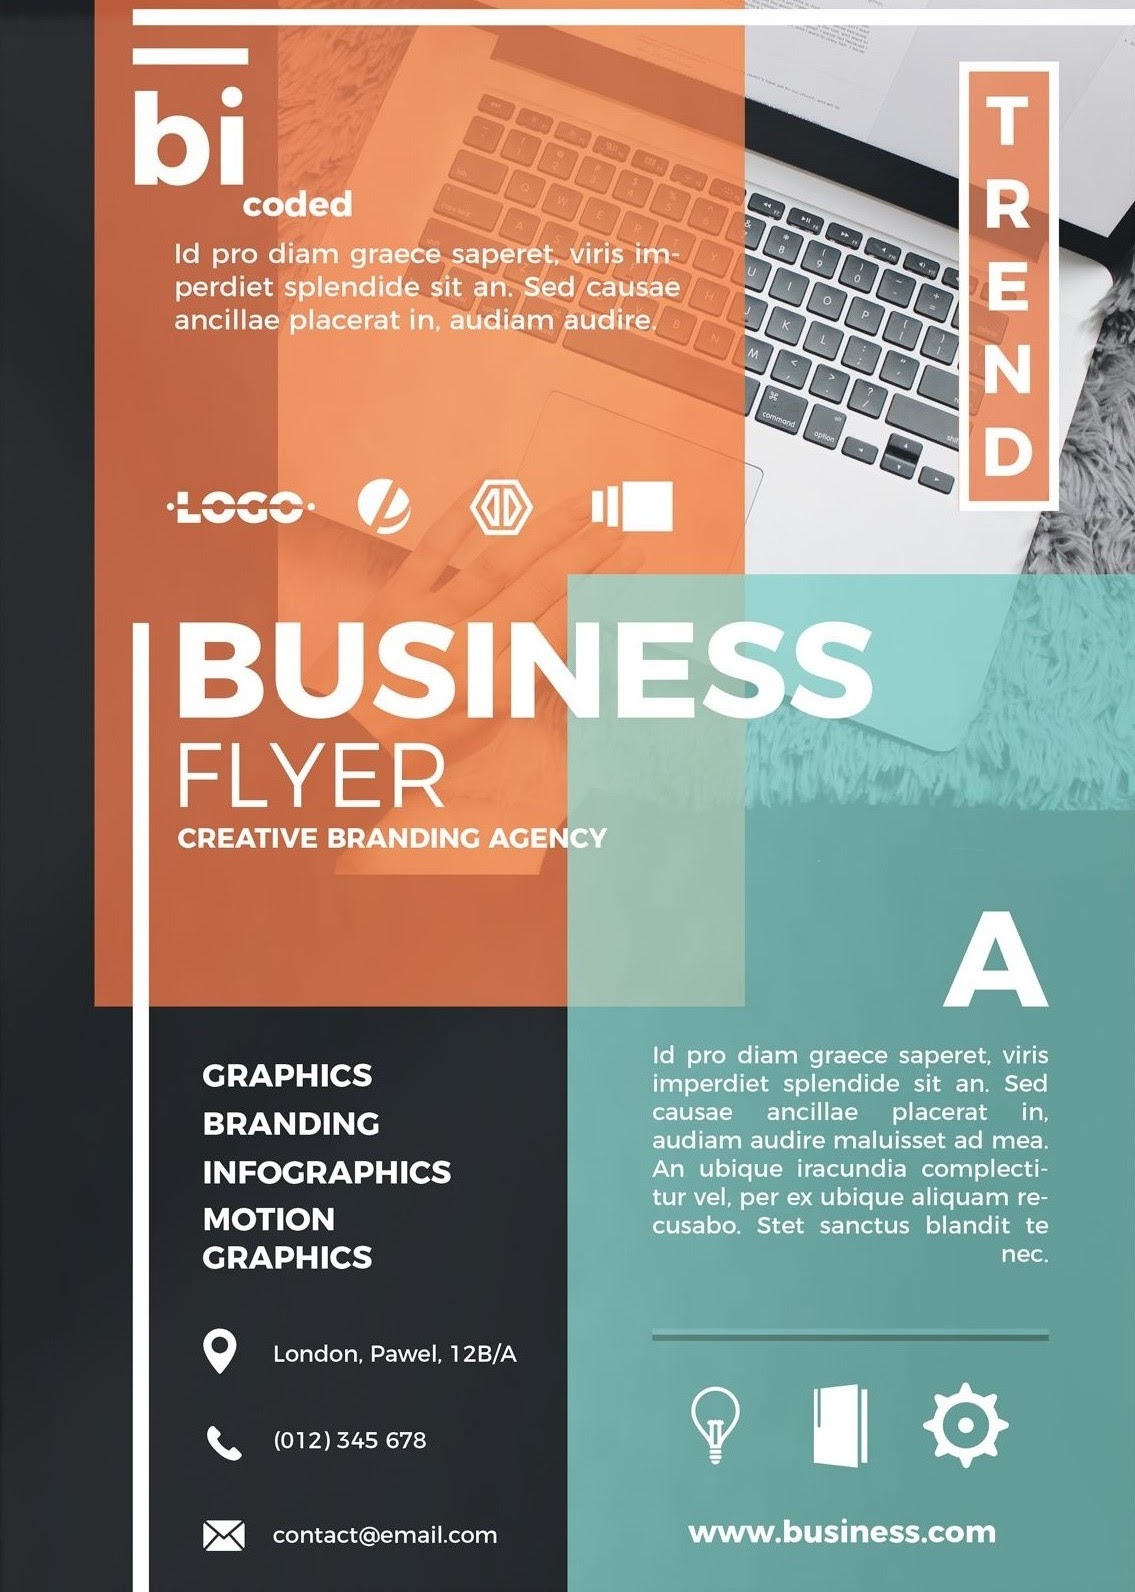
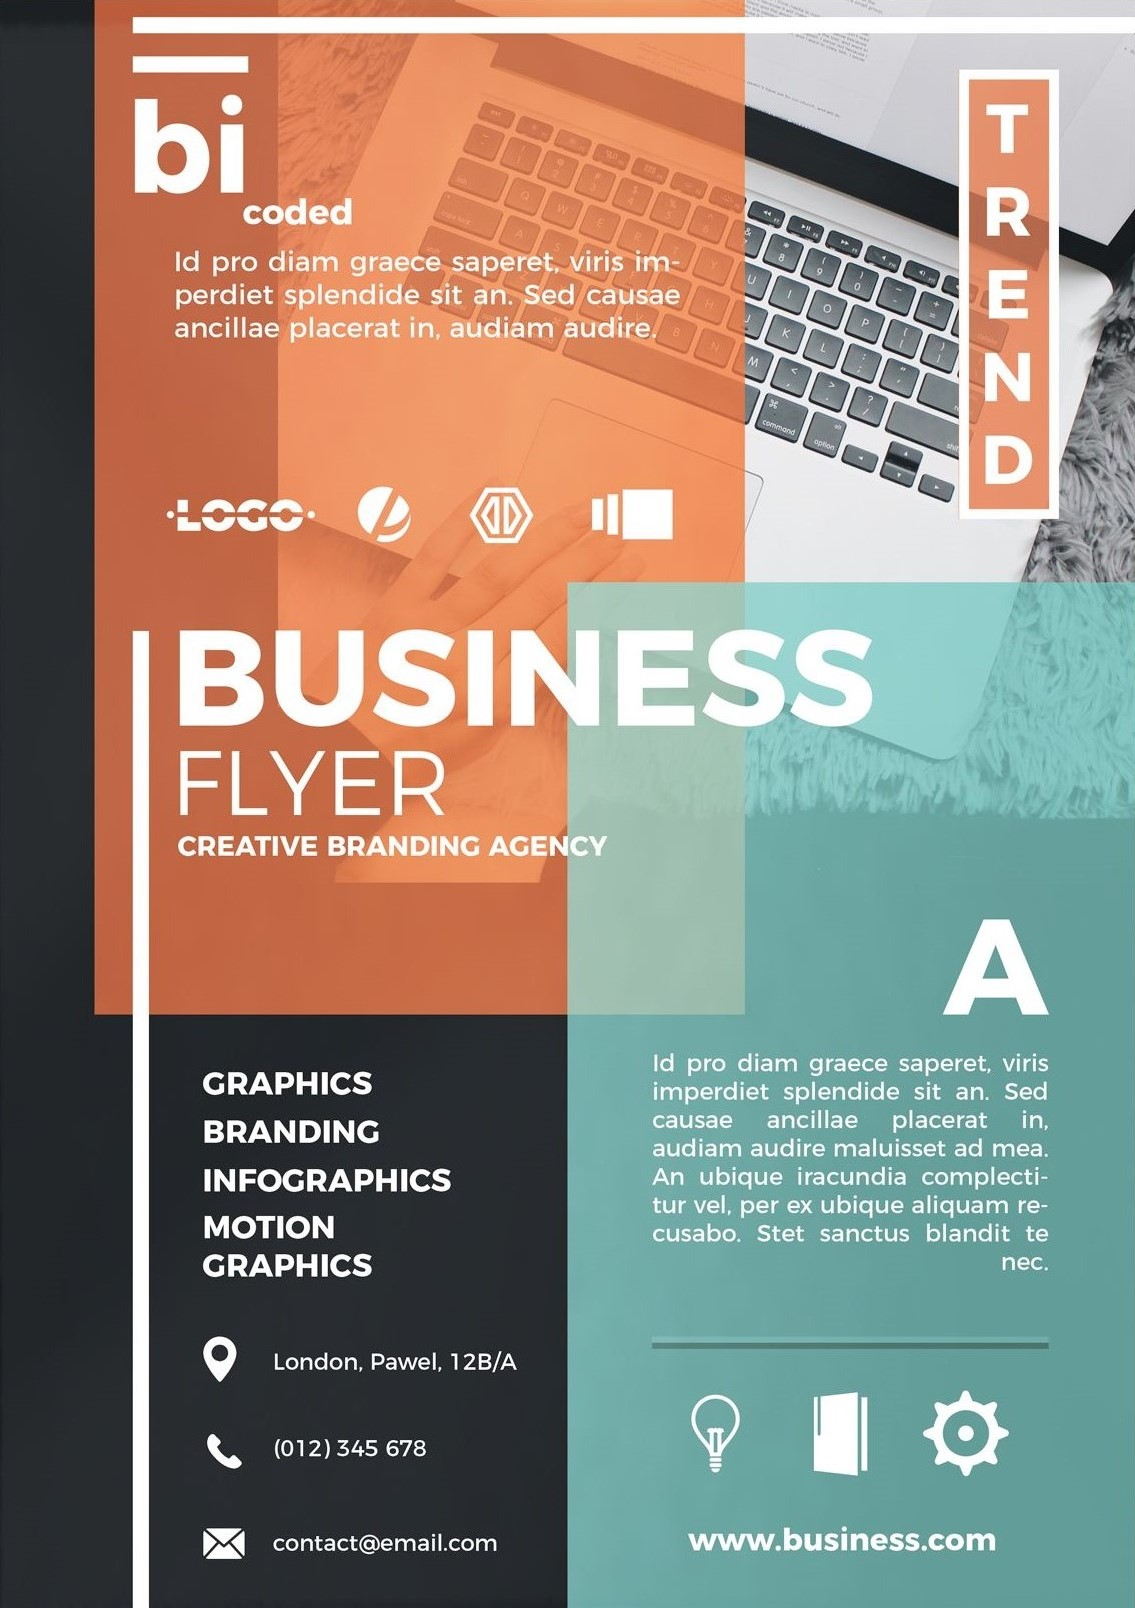
GIT
Layout 5 completed.

diff --git a/index.html b/index.html
@@ -5,15 +5,14 @@
         <!-- Required meta tags -->
         <meta charset="utf-8">
         <meta name="viewport" content="width=device-width, initial-scale=1, shrink-to-fit=no">
-
         <!-- Bootstrap CSS -->
         <link rel="stylesheet" href="https://stackpath.bootstrapcdn.com/bootstrap/4.3.1/css/bootstrap.min.css" integrity="sha384-ggOyR0iXCbMQv3Xipma34MD+dH/1fQ784/j6cY/iJTQUOhcWr7x9JvoRxT2MZw1T" crossorigin="anonymous">
         <link rel="stylesheet" href="index.css">
     </head>
     
-    <body class="container-fluid body">
+    <body class="container-fluid body" id="body">
         <div class="row orange_box_main_row" >
-            
+
             <hr class="top_line">
             <div class="col-md-8 orange_box">
                 <h5 class="logo">bi</h5>
@@ -38,47 +37,47 @@
                     <div>
                 </div>
             </div>
-            
+
             <h1 id="heading">BUSINESS</h1>
             <strong id="subheading">FLYER</strong><br>
             <h2 id="flyer_discription">CREATIVE BRANDING AGENCY</h2><br>
 
-            
+
             </div>
             <div class="col-md-4 section_1_rhs">
                 <strong class="trend" id="trend">TREND</strong>
             </div>
-            
+
          <!--image ends-->
         </div>
         <div class="row">
-            <div class="col-md-6 section_2_lhs">
-            
-                <div class="links">
+            <div class="col-xl-6 section_2_lhs">
+
+                <div class="links" id="sec_2_links">
                     <a href="#">GRAPHICS</a><br>
                     <a href="#">BRANDING</a><br>
                     <a href="#">INFOGRAPHICS</a><br>
                     <a href="#">MOTION GRAPHICS</a>
                 </div><br><br>
-                <div class="address">
+                <div class="address" id="sec_2_address">
                     <a href="#">
-                    <svg xmlns="http://www.w3.org/2000/svg" width="20" height="25" fill="currentColor" class="bi bi-geo-alt-fill" viewBox="0 0 16 16">
+                    <svg xmlns="http://www.w3.org/2000/svg" width="35" height="35" fill="currentColor" class="bi bi-geo-alt-fill" viewBox="0 0 16 16">
                     <path d="M8 16s6-5.686 6-10A6 6 0 0 0 2 6c0 4.314 6 10 6 10zm0-7a3 3 0 1 1 0-6 3 3 0 0 1 0 6z"/>
-                    </svg>&nbsp &nbsp  London, Pawel, 12B/A
-                    </a><br><br>
+                    </svg>&nbsp &nbsp &nbsp  London, Pawel, 12B/A
+                    </a><br><br><br>
 
-                    <a href="#"><svg xmlns="http://www.w3.org/2000/svg" width="16" height="16" fill="currentColor" class="bi bi-telephone-fill" viewBox="0 0 16 16">
+                    <a href="#"><svg xmlns="http://www.w3.org/2000/svg" width="35" height="35" fill="currentColor" class="bi bi-telephone-fill" viewBox="0 0 16 16">
                     <path fill-rule="evenodd" d="M1.885.511a1.745 1.745 0 0 1 2.61.163L6.29 2.98c.329.423.445.974.315 1.494l-.547 2.19a.678.678 0 0 0 .178.643l2.457 2.457a.678.678 0 0 0 .644.178l2.189-.547a1.745 1.745 0 0 1 1.494.315l2.306 1.794c.829.645.905 1.87.163 2.611l-1.034 1.034c-.74.74-1.846 1.065-2.877.702a18.634 18.634 0 0 1-7.01-4.42 18.634 18.634 0 0 1-4.42-7.009c-.362-1.03-.037-2.137.703-2.877L1.885.511z"/>
-                    </svg> &nbsp &nbsp (012) 345 678
-                    </a><br><br>
+                    </svg> &nbsp &nbsp &nbsp (012) 345 678
+                    </a><br><br><br>
 
-                    <a href="#"><svg xmlns="http://www.w3.org/2000/svg" width="16" height="16" fill="currentColor" class="bi bi-envelope-fill" viewBox="0 0 16 16">
+                    <a href="#"><svg xmlns="http://www.w3.org/2000/svg" width="35" height="35" fill="currentColor" class="bi bi-envelope-fill" viewBox="0 0 16 16">
                     <path d="M.05 3.555A2 2 0 0 1 2 2h12a2 2 0 0 1 1.95 1.555L8 8.414.05 3.555ZM0 4.697v7.104l5.803-3.558L0 4.697ZM6.761 8.83l-6.57 4.027A2 2 0 0 0 2 14h12a2 2 0 0 0 1.808-1.144l-6.57-4.027L8 9.586l-1.239-.757Zm3.436-.586L16 11.801V4.697l-5.803 3.546Z"/>
-                    </svg>&nbsp &nbsp  contact@email.com
+                    </svg>&nbsp &nbsp &nbsp contact@email.com
                     </a><br>
                 </div>    
             </div>
-            <div class="col-md-6 section_2_rhs">
+            <div class="col-xl-6 section_2_rhs" id="cyan_box">
                 <h1>A</h1>
                 <p class="text-justify">Id pro diam graece saperet viris 
                     imperdiet splendide sit an. Sed
@@ -94,24 +93,22 @@
                 </p>
                 <hr class="section_2_line">
                 <hr class="section_2_line2">
-
+                <br><br>
                 <div class="section_2_icons"> 
                     <a href="#" class="bottom_icon_1"><svg xmlns="http://www.w3.org/2000/svg" width="10%" height="10%" fill="currentColor" class="bi bi-lightbulb" viewBox="0 0 16 16">
                         <path d="M2 6a6 6 0 1 1 10.174 4.31c-.203.196-.359.4-.453.619l-.762 1.769A.5.5 0 0 1 10.5 13a.5.5 0 0 1 0 1 .5.5 0 0 1 0 1l-.224.447a1 1 0 0 1-.894.553H6.618a1 1 0 0 1-.894-.553L5.5 15a.5.5 0 0 1 0-1 .5.5 0 0 1 0-1 .5.5 0 0 1-.46-.302l-.761-1.77a1.964 1.964 0 0 0-.453-.618A5.984 5.984 0 0 1 2 6zm6-5a5 5 0 0 0-3.479 8.592c.263.254.514.564.676.941L5.83 12h4.342l.632-1.467c.162-.377.413-.687.676-.941A5 5 0 0 0 8 1z"/>
                     </svg></a>
-                
+
                     <a href="#" class="bottom_icon_2" ><svg xmlns="http://www.w3.org/2000/svg" width="10%" height="10%" fill="currentColor" class="bi bi-files" viewBox="0 0 16 16">
                         <path d="M13 0H6a2 2 0 0 0-2 2 2 2 0 0 0-2 2v10a2 2 0 0 0 2 2h7a2 2 0 0 0 2-2 2 2 0 0 0 2-2V2a2 2 0 0 0-2-2zm0 13V4a2 2 0 0 0-2-2H5a1 1 0 0 1 1-1h7a1 1 0 0 1 1 1v10a1 1 0 0 1-1 1zM3 4a1 1 0 0 1 1-1h7a1 1 0 0 1 1 1v10a1 1 0 0 1-1 1H4a1 1 0 0 1-1-1V4z"/>
                     </svg></a>
 
                     <a href="#" class="bottom_icon_3"><svg xmlns="http://www.w3.org/2000/svg" width="10%" height="10%" fill="currentColor" class="bi bi-gear-fill" viewBox="0 0 16 16">
                         <path d="M9.405 1.05c-.413-1.4-2.397-1.4-2.81 0l-.1.34a1.464 1.464 0 0 1-2.105.872l-.31-.17c-1.283-.698-2.686.705-1.987 1.987l.169.311c.446.82.023 1.841-.872 2.105l-.34.1c-1.4.413-1.4 2.397 0 2.81l.34.1a1.464 1.464 0 0 1 .872 2.105l-.17.31c-.698 1.283.705 2.686 1.987 1.987l.311-.169a1.464 1.464 0 0 1 2.105.872l.1.34c.413 1.4 2.397 1.4 2.81 0l.1-.34a1.464 1.464 0 0 1 2.105-.872l.31.17c1.283.698 2.686-.705 1.987-1.987l-.169-.311a1.464 1.464 0 0 1 .872-2.105l.34-.1c1.4-.413 1.4-2.397 0-2.81l-.34-.1a1.464 1.464 0 0 1-.872-2.105l.17-.31c.698-1.283-.705-2.686-1.987-1.987l-.311.169a1.464 1.464 0 0 1-2.105-.872l-.1-.34zM8 10.93a2.929 2.929 0 1 1 0-5.86 2.929 2.929 0 0 1 0 5.858z"/>
-                    </svg></a>
+                    </svg></a><br><br><br>
 
                     <div align="center" ><a class="site_link" href="#">www.business.com</a></div>
                 </div>
-
-                
             </div>
         </div>
         
@@ -120,6 +117,5 @@
         <script src="https://code.jquery.com/jquery-3.3.1.slim.min.js" integrity="sha384-q8i/X+965DzO0rT7abK41JStQIAqVgRVzpbzo5smXKp4YfRvH+8abtTE1Pi6jizo" crossorigin="anonymous"></script>
         <script src="https://cdnjs.cloudflare.com/ajax/libs/popper.js/1.14.7/umd/popper.min.js" integrity="sha384-UO2eT0CpHqdSJQ6hJty5KVphtPhzWj9WO1clHTMGa3JDZwrnQq4sF86dIHNDz0W1" crossorigin="anonymous"></script>
         <script src="https://stackpath.bootstrapcdn.com/bootstrap/4.3.1/js/bootstrap.min.js" integrity="sha384-JjSmVgyd0p3pXB1rRibZUAYoIIy6OrQ6VrjIEaFf/nJGzIxFDsf4x0xIM+B07jRM" crossorigin="anonymous"></script>
-
     </body>
 </html>

diff --git a/index.css b/index.css
@@ -1,9 +1,18 @@
+
+@media(min-width:950px)
+{
+    #body
+    {
+        background-color:rgb(46, 45, 45) ;
+        position: absolute;
+        left: 5%; 
+    }
+}
 .body
 {
     background-color:rgb(46, 45, 45) ;
-    position: relative;
-    left: 5%;
-    right: 0%;
+    position: absolute;
+    left: 0%;
 }
 .orange_box_main_row
 {
@@ -34,7 +43,7 @@
     padding-top: 10%;
     background-color: rgba(255, 68, 0, 0.664);
     color: white;
-    padding-bottom: 8%;
+    padding-bottom: 15%;
     padding-left: 2%;
 } 
 .logo_discription
@@ -53,7 +62,7 @@
 .orange_box h1 /*business*/
 {
     font-size: 400%;
-    font-weight: 600; 
+    font-weight: 700; 
     z-index: 1;   
 }
 @media(min-width: 1060px)
@@ -68,7 +77,7 @@
 .orange_box strong /*Flyer*/
 {
     font-size: 350%;
-    line-height: 1%;
+    
     font-weight: 100;
 }
 @media(min-width: 1060px)
@@ -97,13 +106,13 @@
         margin-left: 5%; 
     }
 }
-
 .logo
 {
     text-decoration: overline;
     color: white;
-    font-size: 500%;
+    font-size: 600%;
     font-weight: 1000;
+    padding-top: 3%;
 }
 .logo_bottom_text
 {
@@ -120,25 +129,28 @@
 }
 .trend
 {
-    
-    border: 0.3em solid white;
+    border: 0.2em solid white;
     color: white;
     background-color:rgba(255, 68, 0, 0.664);
     writing-mode: horizontal-tb;
     text-orientation: sideways;
-    width: 20%;
+    font-size: 350%;
+    position: relative;
+    left: 20%;
+    width: 2em;
     margin-bottom: 20;
 }
-@media(min-width: 760px)
+@media(min-width: 768px)
 { 
     #trend
     {
         writing-mode: vertical-rl;
         text-orientation: upright;
-        font-size: 200%;
-        width: 20%;
+        font-size: 350%;
+        width: 2em;
         position: relative;
-        right: -70%;
+        left: 60%;
+        right: -30%;
     }
 }
 .section_2_lhs
@@ -146,48 +158,73 @@
     border-left: 5px solid white;
     padding-top: 38%;
     margin-top: -33%;
-   
+
 }
-/* .section_2_lhs h1
-{
-    font-size: 1000%;
-}
-.section_2_lhs strong
-{
-    font-size: 500%;
-    font-weight: 400;
-}
-.section_2_lhs p
-{
-    font-size: 170%;
-    font-weight: 1000;
-} */
 .links a
 {
     text-decoration: none;
     color: white;
     padding-top: 5%;
-    font-size: 150%;
-    font-weight: 900;
+    font-size: 200%;
+    font-weight: 800;
     margin-left: 10%;
+}
+@media(min-width:745px)
+{
+    #sec_2_links
+    {
+        text-decoration: none;
+        color: white;
+        padding-top: 5%;
+        font-size: 250%;
+        font-weight: 900;
+        margin-left: 10%;
+    }
 }
 .address a
 {
     margin-left: 5%;
     text-decoration: none;
     color: white; 
-    font-size: 100%;
+    font-size: 120%;
     margin-left:10%
+}
+@media (min-width:745px)
+{
+    #sec_2_address
+    {
+        margin-left: 5%;
+        text-decoration: none;
+        color: white; 
+        font-size: 200%;
+        margin-left:10% 
+    }   
 }
 .section_2_rhs
 {
     color: white;
     position: relative;
     padding-left: 10%;
-    margin-top: -35%;
-    padding-top: 30%;
+    margin-top: -40%;
+    padding-top: 35%;
     background-color: rgba(28, 224, 224, 0.438); 
-    padding-right: 4%;   
+    padding-right: 4%; 
+    padding-bottom: 5%;
+    margin-top: 0;
+}
+@media(min-width:1200px)
+{
+#cyan_box
+{
+    color: white;
+    position: relative;
+    padding-left: 10%;
+    margin-top: -40%;
+    padding-top: 35%;
+    background-color: rgba(28, 224, 224, 0.438); 
+    padding-right: 4%; 
+    padding-bottom: 5%;
+}
 }
 .section_2_rhs h1
 {
@@ -197,9 +234,10 @@
 }
 .section_2_rhs p
 {
-    font-size: 100%;
-    font-weight: 500;
+    font-size: 150%;
+    font-weight: 700;
     direction: rtl;
+    padding-bottom: 10%;
 }
 .section_2_line
 {
@@ -240,4 +278,5 @@
     color: white;
     font-size: 150%;
     font-weight: 900;
+    
 }
